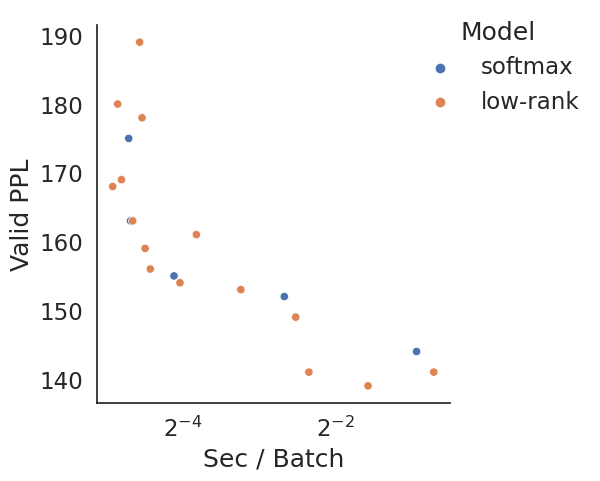
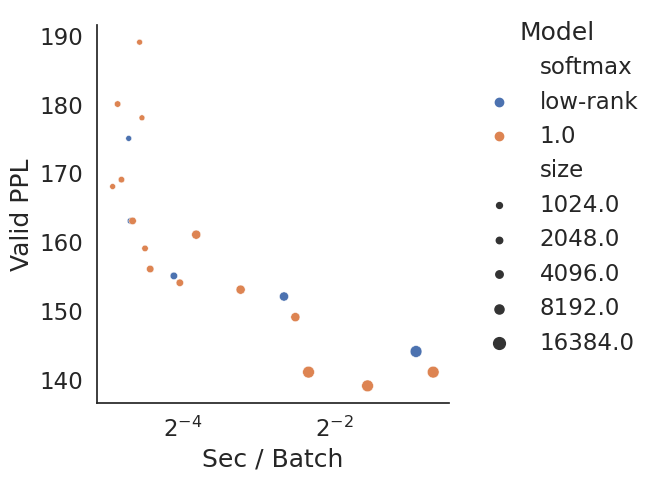
add sizes

diff --git a/speed_accuracy_frontier.py b/speed_accuracy_frontier.py
@@ -53,12 +53,21 @@ ratio_data = np.array([
     (8,8,8,8,8),
 ])
 
+size_data = np.array([
+    (16384,8192,4096,2048,1024),
+    (16384,8192,4096,2048,1024),
+    (16384,8192,4096,2048,1024),
+    (16384,8192,4096,2048,1024),
+])
+
+
 softmax_data = np.vstack((
     speed_data[0],
     acc_data[0],
     np.zeros(5),
     state_data[0],
     ratio_data[0],
+    size_data[0],
 ))
 lhmm_data = np.vstack((
     speed_data[1:].reshape(-1),
@@ -67,25 +76,37 @@ lhmm_data = np.vstack((
     #["low-rank"] * 15,
     state_data[1:].reshape(-1),
     ratio_data[1:].reshape(-1),
+    size_data[1:].reshape(-1),
 ))
 data = np.hstack((softmax_data, lhmm_data))
 
 hmm_df = pd.DataFrame(
     data.T,
-    columns = ["speed", "accuracy", "model", "states", "ratio"],
+    columns = ["speed", "accuracy", "model", "states", "ratio", "size"],
 )
 
 g = sns.relplot(
     data=hmm_df, x="speed", y="accuracy", hue="model", kind="scatter",
+    size="size",
 )
 g.set_axis_labels("Sec / Batch", "Valid PPL")
-g.legend.set_title("Model")
+#g.legend.set_title("Model")
 # replace labels
-new_labels = ['softmax', 'low-rank']
+new_labels = [
+    "Parameterization",
+    'softmax',
+    'low-rank',
+    "Num states",
+    "1024",
+    "2048",
+    "4096",
+    "8192",
+    "16384",
+]
 sns.move_legend(g,
-    "upper right",
+    "right",
     #"lower center",
-    #bbox_to_anchor=(.5, 1), ncol=2, title=None, frameon=False,
+    bbox_to_anchor=(1.1, 0.65), ncol=1, title=None, frameon=False,
 )
 for t, l in zip(g.legend.texts, new_labels):
     t.set_text(l)
@@ -97,6 +118,7 @@ g.savefig("lhmm-speed-accuracy.png")
 
 g = sns.relplot(
     data=hmm_df, x="speed", y="accuracy", hue="model", kind="scatter",
+    size="size",
 )
 g.set_axis_labels("Sec / Batch", "Valid PPL")
 g.legend.set_title("Model")
@@ -117,7 +139,7 @@ g.savefig("lhmm-speed-accuracy-nolegend.png")
 
 # PCFG
 softmax_data = np.array([
-    (1/4.37, 252.60, 0, 90, 90),
+    (1/4.37, 252.60, 0, 90,  90),
     (1/2.99, 234.01, 0, 180, 180),
     (1/.98,  191.08, 0, 300, 300),
 ])
@@ -138,16 +160,23 @@ pcfg_df = pd.DataFrame(
 
 g = sns.relplot(
     data=pcfg_df, x="speed", y="accuracy", hue="model", kind="scatter",
+    size="states",
 )
 #g.set_axis_labels("log(Batch / Sec)", "Valid PPL")
 g.set_axis_labels("Sec / Batch", "Valid PPL")
-g.legend.set_title("Model")
 # replace labels
-new_labels = ['softmax', 'low-rank']
+new_labels = [
+    "Parameterization",
+    'softmax',
+    'low-rank',
+    "Num states",
+    "90",
+    "180",
+    "300",
+]
 sns.move_legend(g,
-    "upper right",
-    #"lower center",
-    #bbox_to_anchor=(.5, 1), ncol=2, title=None, frameon=False,
+    loc="right",
+    bbox_to_anchor=(1.1, 0.7), ncol=1, title=None, frameon=False,
 )
 for t, l in zip(g.legend.texts, new_labels):
     t.set_text(l)
